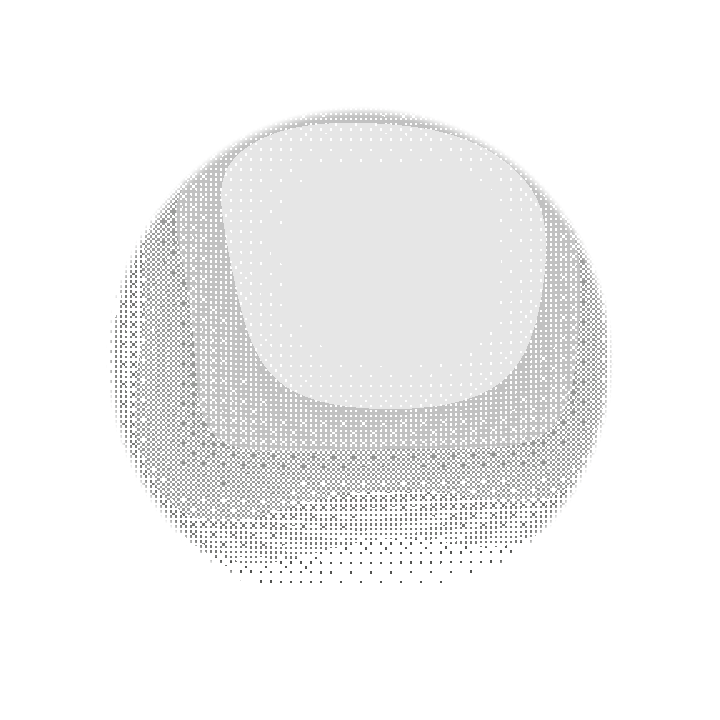
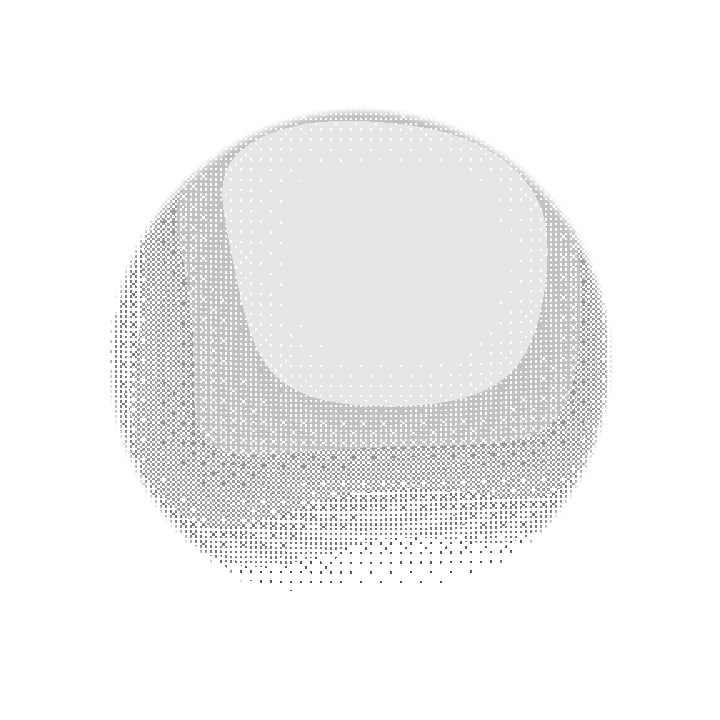
Make README animations loop seamlessly

diff --git a/tools/visuals/ink.js b/tools/visuals/ink.js
@@ -4,8 +4,14 @@ export function inkEffect(host) {
   const image = host.querySelector('img');
   const bayer2 = (x, y) => 2 * (x % 2) + 3 * (y % 2) - 4 * (x % 2) * (y % 2);
   const rank = (x, y) => (16 * bayer2(x, y) + 4 * bayer2(x >> 1, y >> 1) + bayer2(x >> 2, y >> 2) + .5) / 64;
-  let item, frame = 0, time = 0, last = 0, paused = true, visible = true;
+  let item, frame = 0, time = 0, last = 0, paused = true, visible = true, loopDuration = 0;
   let canvas;
+
+  function phase(speed) {
+    if (!loopDuration) return time * speed;
+    const cycles = Math.max(1, Math.round(speed * loopDuration / (2 * Math.PI)));
+    return time * cycles * 2 * Math.PI / loopDuration;
+  }
 
   function prepare() {
     const box = image.getBoundingClientRect(), parent = host.getBoundingClientRect();
@@ -38,13 +44,13 @@ export function inkEffect(host) {
   function paint() {
     if (!item) return;
     const {width, height, scale, alpha, grain, output, pixels, strength} = item;
-    const center = .5 + .5 * Math.sin(time * .45);
+    const center = .5 + .5 * Math.sin(phase(.45));
     for (let y = 0; y < height; y++) {
       const scan = Math.exp(-Math.pow((y / height - center) / .085, 2));
       for (let x = 0; x < width; x++) {
         const n = y * width + x;
-        const wave = Math.pow((1 + Math.sin(x / width * Math.PI * 2 - time * .95)) / 2, 4);
-        const offset = wave * .65 * Math.sin(time * .7) + scan * 1.65 * Math.sin(time * 1.2);
+        const wave = Math.pow((1 + Math.sin(x / width * Math.PI * 2 - phase(.95))) / 2, 4);
+        const offset = wave * .65 * Math.sin(phase(.7)) + scan * 1.65 * Math.sin(phase(1.2));
         const erase = wave * .28 + scan * .24;
         const ghostOpacity = wave * .04 + scan * .12;
         const sx = x - offset * scale * strength, x0 = Math.floor(sx), x1 = x0 + 1, mix = sx - x0;
@@ -74,5 +80,14 @@ export function inkEffect(host) {
     wake();
   }).catch(() => { host.removeAttribute('data-ink-ready'); });
   document.addEventListener('visibilitychange', wake);
-  return {ready, setPaused(value) { paused = value; wake(); }};
+  return {
+    ready,
+    setPaused(value) { paused = value; wake(); },
+    renderAt(seconds, duration) {
+      paused = true; cancelAnimationFrame(frame); frame = 0;
+      loopDuration = duration;
+      time = seconds % duration;
+      paint();
+    }
+  };
 }

diff --git a/docs/landing.js b/docs/landing.js
@@ -6,7 +6,10 @@ const well = document.querySelector('.orb-well');
 const canvas = document.querySelector('#live-orb');
 const ink = inkEffect(document.querySelector('#hero-mark'));
 const exporting = new URLSearchParams(location.search).has('export');
-if (exporting) document.body.dataset.export = 'true';
+if (exporting) {
+  document.body.dataset.export = 'true';
+  window.renderInkAt = (seconds, duration) => ink.renderAt(seconds, duration);
+}
 let orbLoading;
 const paused = () => reduced.matches;
 

diff --git a/tools/visuals/README.md b/tools/visuals/README.md
@@ -23,12 +23,15 @@ tools/visuals/export-visuals
 
 This crops the preserved source artwork, builds the production site in a
 temporary directory, captures the actual landing renderer with a fixed browser
-clock, and writes transparent light/dark PNGs, eight-second GIFs, and sphere fallbacks into
+clock, and writes transparent light/dark PNGs, twelve-second GIFs, and sphere fallbacks into
 `assets/visuals/`. The export recipe lives in `export.mjs`; there are no command
 configuration flags. Commit regenerated assets with changes to the effects.
 
 PNGs retain smooth alpha. GIFs use ordered Bayer coverage for their one-bit
 transparency, preserving faint ink without a baked-in background or edge halo.
+The GIF renderer follows a closed sphere pose path and whole lettering cycles.
+Its endpoint matches its start exactly; the endpoint itself is omitted from the
+encoded frames so there is no duplicated-frame pause at the loop boundary.
 
 The Playwright version and browser revision are pinned by `package-lock.json`.
 Frame timing and artwork are fixed. GPU rendering and ffmpeg versions can still

diff --git a/assets/visuals/README.md b/assets/visuals/README.md
@@ -5,7 +5,8 @@
   `source/manicule.png`. CSS points it toward the tour label.
 - `readme-{light,dark}.{gif,png}`: README banners, rendered from the same sphere
   and lettering effects as the website, with transparent backgrounds. Light mode
-  uses dark ink; dark mode uses light ink. PNGs serve reduced-motion readers.
+  uses dark ink; dark mode uses light ink. GIFs repeat a seamless twelve-second
+  cycle; PNGs serve reduced-motion readers.
 - `sphere-{light,dark}.png`: the website's no-JavaScript/no-WebGL fallback.
 - `../vrs-venn.png` and `../vrs-venn-dark.png`: the influences diagram with only
   the exterior paper removed. Circle fills and intersections remain opaque.
